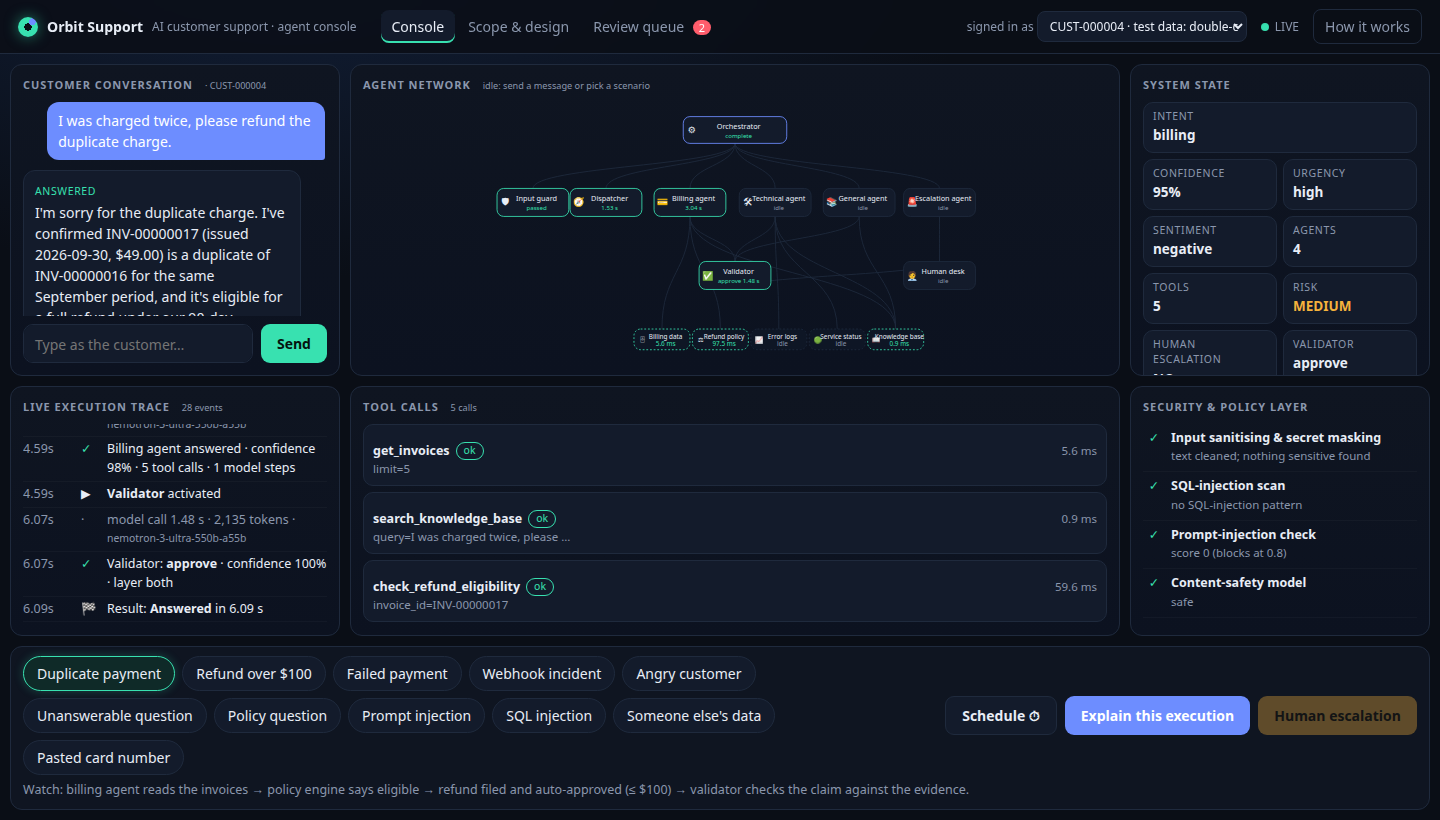
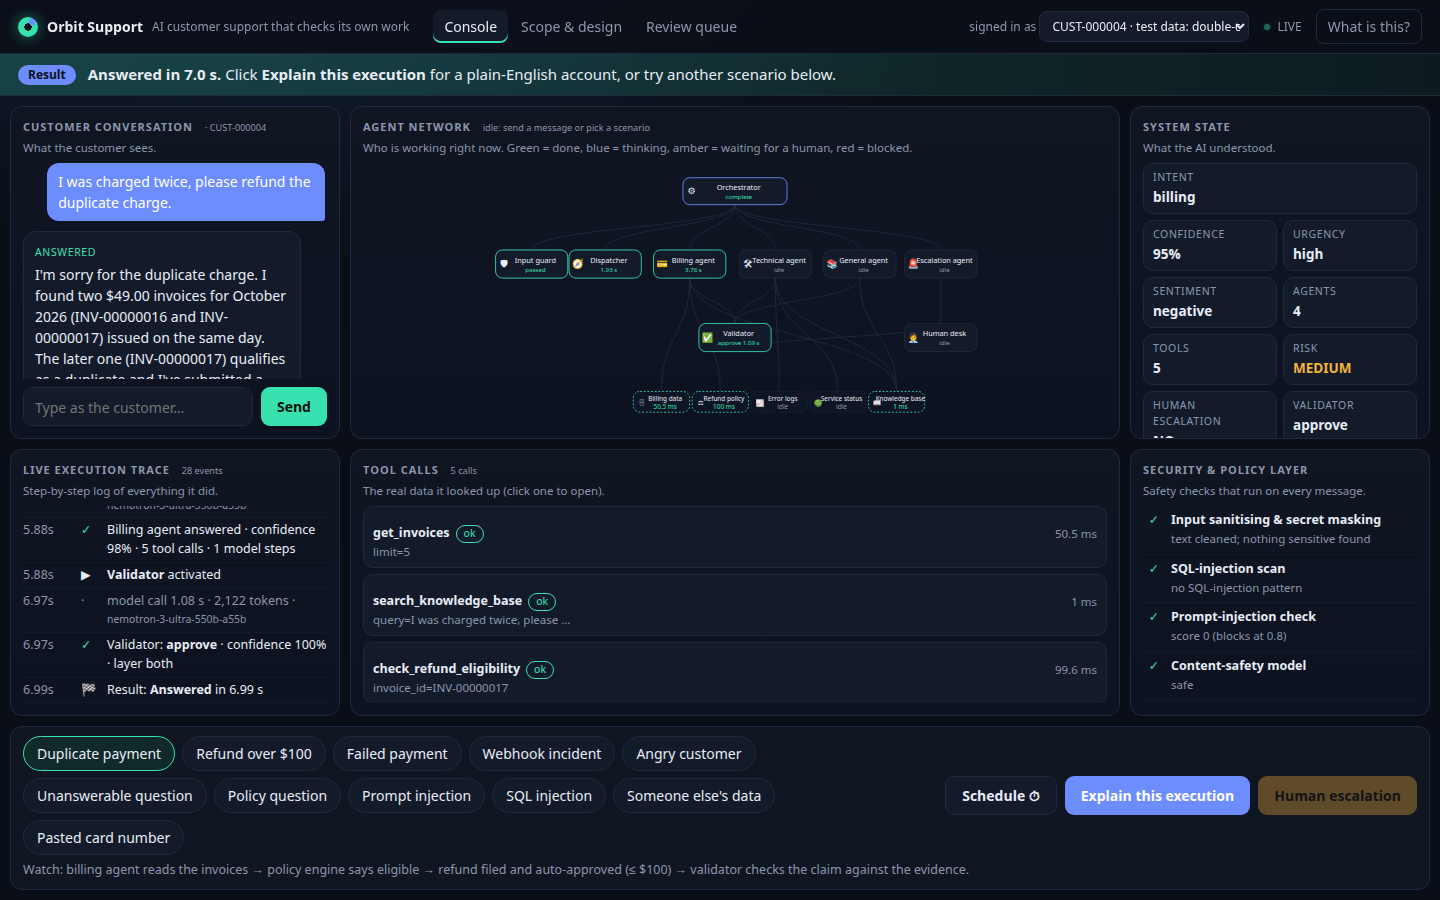
Console: plain-English intro screen, live step narrator, panel subtitles

diff --git a/frontend/app.js b/frontend/app.js
@@ -83,8 +83,28 @@ const short = (o, n = 70) => { let s = typeof o === "string" ? o : JSON.stringif
 const argSummary = a => { if (!a) return ""; const x = a.args !== undefined ? a.args : a; if (typeof x === "string") return short(x, 60); return Object.entries(x || {}).map(([k, v]) => `${k}=${short(v, 28)}`).join(", "); };
 function llmAgent(n) { const k = n.split(".")[1]; return { dispatcher: "dispatcher", billing: "billing", technical: "technical", general: "general", validator: "validator", escalation: "escalation", safety: "guard", merge: "orch" }[k]; }
 
+const PLAIN_TOOL = { get_invoices: "reading the customer's invoices", get_payment_status: "checking the payment status", get_customer_profile: "looking up the customer's plan", check_refund_eligibility: "asking the refund rule engine (plain code, not AI)", create_refund_request: "filing the refund request", search_knowledge_base: "searching the help articles", get_service_status: "checking if any service is down right now", get_user_logs: "reading the customer's recent error logs", run_diagnostic: "running a diagnostic", create_ticket: "opening a support ticket", get_ticket_history: "reading past tickets", assign_to_human: "assigning the case to a human" };
+function narr(n, text, cls) { const el = $("#narr"); el.hidden = false; el.className = "narr" + (cls ? " " + cls : ""); $("#narr-n").textContent = n; $("#narr-t").innerHTML = text; }
+function narrate(ev) {
+  const n = ev.name || "", o = ev.output || {}, ph = ev.phase;
+  if (ph === "start" && n === "guard.input") narr("Step 1", "Checking the message for attacks and secrets. This uses no AI and takes milliseconds.");
+  else if (ph === "end" && n === "guard.input" && o.action === "refuse") narr("Blocked", "<b>Stopped at the door.</b> This looks like an attack, so no AI agent or tool ever saw it.", "badb");
+  else if (ph === "start" && n === "agent.dispatcher") narr("Step 2", "The <b>router</b> is working out what the customer needs and how urgent it is.");
+  else if (ph === "end" && n === "agent.dispatcher") narr("Step 2", `Understood: <b>${esc((o.intents || []).join(" + ") || "unknown")}</b>, urgency <b>${esc(o.urgency || "?")}</b>. Handing it to the right specialist.`);
+  else if (ph === "start" && ["agent.billing", "agent.technical", "agent.general"].includes(n)) narr("Step 3", `The <b>${n.split(".")[1]} agent</b> is investigating using real account data.`);
+  else if (ph === "start" && ev.kind === "tool") narr("Step 3", `Tool call: ${PLAIN_TOOL[n.slice(5)] || esc(n.slice(5))}.`);
+  else if (ph === "end" && ev.kind === "tool" && n === "tool.check_refund_eligibility" && o.data) narr("Step 3", `Refund rules say: <b>${o.data.eligible ? "eligible" : "not eligible"}</b>. This decision is made by code, never by the AI.`);
+  else if (ph === "start" && n === "agent.escalation") narr("Step 3", "Warning signs found (angry, legal, security or the customer asked for a person). <b>Preparing a human handoff.</b>", "warnb");
+  else if (ph === "start" && n === "agent.validator") narr("Step 4", "The <b>fact-checker</b> is verifying every amount, date and invoice id in the draft against the data.");
+  else if (ph === "end" && n === "agent.validator") o.verdict === "approve" ? narr("Step 5", "<b>Checked and approved.</b> Every fact in the reply matches the data. Sent to the customer.", "good") : narr("Held", "<b>The fact-checker wasn't satisfied</b>, so nothing risky was sent. A human will review it.", "warnb");
+}
+function narrDone(res, scen) {
+  if (res.status === "rejected") narr("Result", "<b>Attack blocked in milliseconds.</b> Nothing was looked up and no money moved. Try 'Someone else's data' or 'SQL injection' next.", "badb");
+  else if (res.status === "human_review") narr("Result", "<b>Handed to a human.</b> Click <b>Human escalation</b> below to see what the specialist sees and approve it.", "warnb");
+  else narr("Result", `<b>Answered in ${(res.latency_ms / 1000).toFixed(1)} s.</b> Click <b>Explain this execution</b> for a plain-English account, or try another scenario below.`, "good");
+}
 function onTrace(ev) {
-  if (!run) return; run.events.push(ev); const n = ev.name || "", t = ev.t;
+  if (!run) return; run.events.push(ev); const n = ev.name || "", t = ev.t; narrate(ev);
   if (ev.phase === "start") {
     if (n === "guard.input") { setNode("guard", "active", "checking"); flow("orch", "guard"); tline(t, "▶", "Input guard started: sanitise, mask secrets, injection checks"); }
     else if (n === "guard.safety_model") { setNode("guard", "active", "safety model"); }
@@ -235,7 +255,7 @@ async function send(text, scen) {
     tline(res.latency_ms, res.status === "delivered" ? "🏁" : res.status === "rejected" ? "⛔" : "🧑💼", `Result: <b>${esc(lab[0])}</b> in ${fmt(res.latency_ms)}`, res.status === "delivered" ? "ok" : res.status === "rejected" ? "bad" : "warn");
     if (res.status === "rejected") setNode("orch", "done", "stopped"); else setNode("orch", "done", "complete");
     if (res.status === "human_review") setNode("human", "waiting", "awaiting human");
-    run.checks.final = res; $("#explain").disabled = false; const needsHuman = res.status === "human_review" || res.flags?.requires_human_approval; $("#esc").disabled = !needsHuman; $("#esc-n").hidden = !needsHuman;
+    narrDone(res, scen); run.checks.final = res; $("#explain").disabled = false; const needsHuman = res.status === "human_review" || res.flags?.requires_human_approval; $("#esc").disabled = !needsHuman; $("#esc-n").hidden = !needsHuman;
     renderState(); renderSec(); renderTools(); if (needsHuman) { watch(res, cid); toast("Escalated: open the Human escalation desk"); }
   } catch (e) {
     clearInterval(run?.timer); pend.className = "msg bot block"; pend.innerHTML = e.status === 429 ? `Too many requests. Try again in ${esc(e.retry || 60)} s.` : "Something went wrong: " + esc(e.message); if (run) setNode("orch", "blocked", "error");
@@ -268,6 +288,7 @@ async function runScenario(s, btn) {
 /* =============== scheduler =============== */
 const SCH = { on: false, ids: [] };
 const waitIdle = async () => { while (S.busy) await sleep(300); };
+const waitIdleReady = async () => { while (S.busy || !S.cur) await sleep(300); };
 async function schLoop() {
   SCH.on = true; $("#sched").classList.add("on"); $("#sched").textContent = "Scheduled ●";
   do {
@@ -375,7 +396,13 @@ async function boot() {
   buildNet(); buildScenarios(); buildDesign(); initSchedule(); renderSec(); renderState(); renderAgents();
   $("#nav").onclick = e => { const b = e.target.closest("button"); if (b) view(b.dataset.v); };
   $("#composer").onsubmit = e => { e.preventDefault(); send($("#msg").value); }; $("#msg").addEventListener("keydown", e => { if (e.key === "Enter" && !e.shiftKey) { e.preventDefault(); send($("#msg").value); } }); $("#msg").addEventListener("input", grow);
-  $("#how").onclick = () => $("#dlg-how").showModal(); $$("[data-close]").forEach(b => b.onclick = () => b.closest("dialog").close()); $("#explain").onclick = explain; $("#esc").onclick = openDesk; $("#dclose2").onclick = () => $("#drawer").hidden = true;
+  const intro = $("#intro"), closeIntro = () => { intro.hidden = true; try { sessionStorage.setItem("seen", "1"); } catch (e) { } };
+  $("#how").onclick = () => { intro.hidden = false; };
+  $("#i-try").onclick = () => { closeIntro(); $("#msg").focus(); };
+  const play = id => async () => { closeIntro(); const s = SCENARIOS.find(x => x.id === id); await waitIdleReady(); runScenario(s, $$(".sbtn").find(b => b.dataset.id === id)); };
+  $("#i-demo").onclick = play("dup"); $("#i-attack").onclick = play("inj");
+  try { if (!sessionStorage.getItem("seen")) intro.hidden = false; } catch (e) { intro.hidden = false; }
+ $$("[data-close]").forEach(b => b.onclick = () => b.closest("dialog").close()); $("#explain").onclick = explain; $("#esc").onclick = openDesk; $("#dclose2").onclick = () => $("#drawer").hidden = true;
   $("#qrefresh").onclick = loadQueue; $("#qf").onclick = e => { const b = e.target.closest("button"); if (!b) return; S.qfilter = b.dataset.s; $$("#qf button").forEach(x => x.classList.toggle("on", x === b)); loadQueue(); };
   $("#acct").onchange = e => useAccount(S.accounts.find(a => a.client_id === e.target.value));
   setInterval(() => { if (!$("#v-queue").hidden) loadQueue(); }, 12000);

diff --git a/frontend/index.html b/frontend/index.html
@@ -10,7 +10,7 @@
 </head>
 <body>
 <header>
-  <div class="brand"><span class="logo"></span><b>Orbit Support</b><span class="sub">AI customer support · agent console</span></div>
+  <div class="brand"><span class="logo"></span><b>Orbit Support</b><span class="sub">AI customer support that checks its own work</span></div>
   <nav id="nav">
     <button data-v="console" class="on">Console</button>
     <button data-v="design">Scope &amp; design</button>
@@ -19,28 +19,29 @@
   <div class="grow"></div>
   <label class="acct" id="acct-wrap" hidden title="Who is logged in. The agent knows this from the login, like a real support portal. It works out WHAT the problem is from the message.">signed in as <select id="acct"></select></label>
   <span class="live" id="live"><i></i><span id="live-t">connecting…</span></span>
-  <button id="how" class="ghost">How it works</button>
+  <button id="how" class="ghost">What is this?</button>
 </header>
 
+<div id="narr" class="narr" hidden><span class="narr-n" id="narr-n"></span><span id="narr-t"></span></div>
 <!-- ============ CONSOLE ============ -->
 <main id="v-console" class="console">
-  <section class="panel p-chat"><h3>Customer conversation <small id="who"></small></h3>
+  <section class="panel p-chat"><h3>Customer conversation <small id="who"></small></h3><p class="pd">What the customer sees.</p>
     <div id="thread" class="thread"></div>
     <form id="composer" class="composer"><textarea id="msg" rows="1" maxlength="2000" placeholder="Type as the customer…"></textarea><button id="send" class="btn">Send</button></form>
   </section>
 
-  <section class="panel p-net"><h3>Agent network <small id="net-hint">idle: send a message or pick a scenario</small></h3>
+  <section class="panel p-net"><h3>Agent network <small id="net-hint">idle: send a message or pick a scenario</small></h3><p class="pd">Who is working right now. Green = done, blue = thinking, amber = waiting for a human, red = blocked.</p>
     <svg id="net" viewBox="0 0 820 430" preserveAspectRatio="xMidYMid meet"></svg>
   </section>
 
-  <section class="panel p-state"><h3>System state</h3>
+  <section class="panel p-state"><h3>System state</h3><p class="pd">What the AI understood.</p>
     <div id="state" class="state"></div>
     <h3 class="sp">Agent state</h3><div id="agents" class="agents"></div>
   </section>
 
-  <section class="panel p-trace"><h3>Live execution trace <small id="tr-total"></small></h3><div id="trace" class="trace"><p class="empty">Nothing yet. Events appear here as agents work.</p></div></section>
-  <section class="panel p-tools"><h3>Tool calls <small id="tl-total"></small></h3><div id="tools" class="tools"><p class="empty">No tool calls yet.</p></div></section>
-  <section class="panel p-sec"><h3>Security &amp; policy layer</h3><div id="sec" class="sec"></div></section>
+  <section class="panel p-trace"><h3>Live execution trace <small id="tr-total"></small></h3><p class="pd">Step-by-step log of everything it did.</p><div id="trace" class="trace"><p class="empty">Nothing yet. Events appear here as agents work.</p></div></section>
+  <section class="panel p-tools"><h3>Tool calls <small id="tl-total"></small></h3><p class="pd">The real data it looked up (click one to open).</p><div id="tools" class="tools"><p class="empty">No tool calls yet.</p></div></section>
+  <section class="panel p-sec"><h3>Security &amp; policy layer</h3><p class="pd">Safety checks that run on every message.</p><div id="sec" class="sec"></div></section>
 
   <section class="bar">
     <div class="scen" id="scen"></div>
@@ -80,6 +81,27 @@
   <li><b>Validator</b> re-checks every amount, date, id and claim against the evidence; unsupported answers are revised or held.</li>
   <li><b>Human desk</b> handles escalations and approvals; the graph pauses until a person decides.</li></ol>
   <p class="muted">Synthetic data. The free model endpoint makes answers take several seconds.</p><button class="btn" data-close>Got it</button></div></dialog>
+<section id="intro" class="intro" hidden><div class="intro-in">
+  <p class="eyebrow">Orbit Support · a demo project</p>
+  <h1>An AI customer-support team that checks its own work</h1>
+  <p class="lead">Customers write in. AI agents look up their <b>real account data</b>, decide what to do and reply. A fact-checker verifies every reply <b>before it is sent</b>. Risky cases (big refunds, angry customers, hacking attempts) are blocked or handed to a human.</p>
+  <div class="flow">
+    <div><b>1</b>Customer<br>writes in</div><i>→</i>
+    <div><b>2</b>Security<br>check</div><i>→</i>
+    <div><b>3</b>AI agents<br>look up data</div><i>→</i>
+    <div><b>4</b>Fact-checker<br>verifies</div><i>→</i>
+    <div class="ok"><b>5</b>Reply sent</div>
+    <div class="or">or, if risky ↓</div><div class="warn"><b>🧑</b>A human decides</div>
+  </div>
+  <div class="why">
+    <div><b>Never invents numbers</b>Every amount, date and invoice id in a reply is checked against the data.</div>
+    <div><b>Can't be tricked</b>Money rules are code, not AI. 58 of 58 attack attempts in testing ended safely.</div>
+    <div><b>Humans stay in charge</b>Refunds over $100 and angry customers wait for a person.</div>
+  </div>
+  <div class="nums"><div><b>90%</b>correct on unseen test cases</div><div><b>58/58</b>attacks blocked</div><div><b>50</b>safety checks</div><div><b>~8 s</b>per reply (free AI tier)</div></div>
+  <div class="cta"><button class="btn big" id="i-demo">▶ Watch it handle a duplicate charge</button><button class="btn big alt" id="i-attack">🛡 Watch an attack get blocked</button><button class="ghost" id="i-try">Try it myself</button></div>
+  <p class="muted">Fake data only. The first request can take up to a minute while the free server wakes up.</p>
+</div></section>
 <div id="toast" class="toast" hidden></div>
 <script src="config.js"></script>
 <script src="scenarios.js"></script>

diff --git a/frontend/styles.css b/frontend/styles.css
@@ -59,3 +59,14 @@ table{width:100%;border-collapse:collapse;font-size:13px;background:var(--panel)
 .ghostb{background:var(--panel2);color:var(--ink);border:1px solid var(--line)}.ghostb.on{border-color:var(--acc);color:var(--acc)}
 .schl{display:grid;grid-template-columns:1fr 1fr;gap:4px 14px;margin:12px 0}.schl label{display:flex;gap:8px;align-items:center;cursor:pointer}.schl input{width:auto}.dlg label select{margin-left:6px}
 .testdata{display:block;margin:2px 0 8px;font-size:12px;color:var(--mut)}
+
+.pd{margin:-4px 0 8px;font-size:11.5px;color:var(--mut);line-height:1.35}
+.narr{display:flex;gap:12px;align-items:center;padding:9px 18px;background:linear-gradient(90deg,rgba(109,141,255,.18),rgba(56,225,176,.10));border-bottom:1px solid var(--line);font-size:15px;min-height:42px}
+.narr-n{flex:none;background:var(--blue);color:#0b0f17;font-weight:700;border-radius:99px;padding:1px 10px;font-size:12px}.narr.good{background:linear-gradient(90deg,rgba(56,225,176,.22),rgba(56,225,176,.06))}.narr.warnb{background:linear-gradient(90deg,rgba(255,189,74,.22),rgba(255,189,74,.06))}.narr.badb{background:linear-gradient(90deg,rgba(255,99,99,.22),rgba(255,99,99,.06))}
+.intro{position:fixed;inset:0;z-index:50;background:radial-gradient(900px 500px at 50% -10%,#16294d 0,var(--bg) 70%);overflow:auto;display:flex;justify-content:center;padding:28px 18px}
+.intro-in{max-width:880px;width:100%}.eyebrow{color:var(--acc);text-transform:uppercase;letter-spacing:.12em;font-size:12px;margin:8px 0}
+.intro h1{font-size:clamp(26px,4.4vw,42px);line-height:1.12;margin:0 0 14px}.lead{font-size:17px;color:#c8d2e6;margin:0 0 20px}.lead b{color:var(--ink)}
+.flow{display:flex;flex-wrap:wrap;align-items:center;gap:8px;margin:0 0 20px}.flow>div{background:var(--panel);border:1px solid var(--line);border-radius:12px;padding:9px 12px;font-size:13px;text-align:center}.flow b{display:block;color:var(--blue);font-size:15px}.flow>i{color:var(--mut);font-style:normal}.flow .ok{border-color:var(--ok)}.flow .warn{border-color:var(--warn)}.flow .or{background:none;border:0;color:var(--warn);font-size:12px}
+.why{display:grid;grid-template-columns:repeat(auto-fit,minmax(220px,1fr));gap:10px;margin-bottom:16px}.why>div{background:var(--panel);border:1px solid var(--line);border-radius:12px;padding:12px;font-size:13.5px;color:var(--mut)}.why b{display:block;color:var(--ink);margin-bottom:3px;font-size:14.5px}
+.nums{display:flex;flex-wrap:wrap;gap:10px 28px;margin:0 0 22px}.nums>div{color:var(--mut);font-size:12.5px}.nums b{display:block;font-size:26px;color:var(--acc)}
+.cta{display:flex;flex-wrap:wrap;gap:10px;align-items:center;margin-bottom:12px}.btn.big{padding:12px 20px;font-size:15.5px}

diff --git a/README.md b/README.md
@@ -5,7 +5,11 @@
 **[Live console](https://orbit-support-ui.vercel.app)** (Vercel) · **[API](https://orbit-support.onrender.com/docs)** (Render) · all data is synthetic
 > Free tier: the first request after idle takes 30-60 s to wake. Answers take ~8 s because the free NVIDIA endpoint is slow.
 
-![Console: a duplicate-charge refund handled live](docs/img/console.png)
+**New here?** Open the live console. A one-screen intro explains the project in plain English, and one click plays a real duplicate-charge case with a bar that narrates each step.
+
+![Intro screen](docs/img/intro.png)
+
+![Console: a duplicate-charge refund handled live, with step narration](docs/img/console.png)
 
 ## What it is
 
@@ -82,7 +86,7 @@ python scripts/trace_view.py --last 3      # where the time went, per node
 
 ## Try it
 
-1. Open the [console](https://orbit-support-ui.vercel.app), pick a login, and write anything. The agent works out the problem from your message, not from the login.
+1. Open the [console](https://orbit-support-ui.vercel.app) and press **Watch it handle a duplicate charge** ("What is this?" reopens the intro). Or pick a login and write anything. The agent works out the problem from your message, not from the login.
 2. Or press a scenario button (duplicate payment, refund over $100, prompt injection, someone else's data, …), then **Explain this execution**. **Schedule** auto-plays scenarios on an interval.
 3. Run it locally, configure it or deploy your own: [`docs/reference.md`](docs/reference.md).
 
